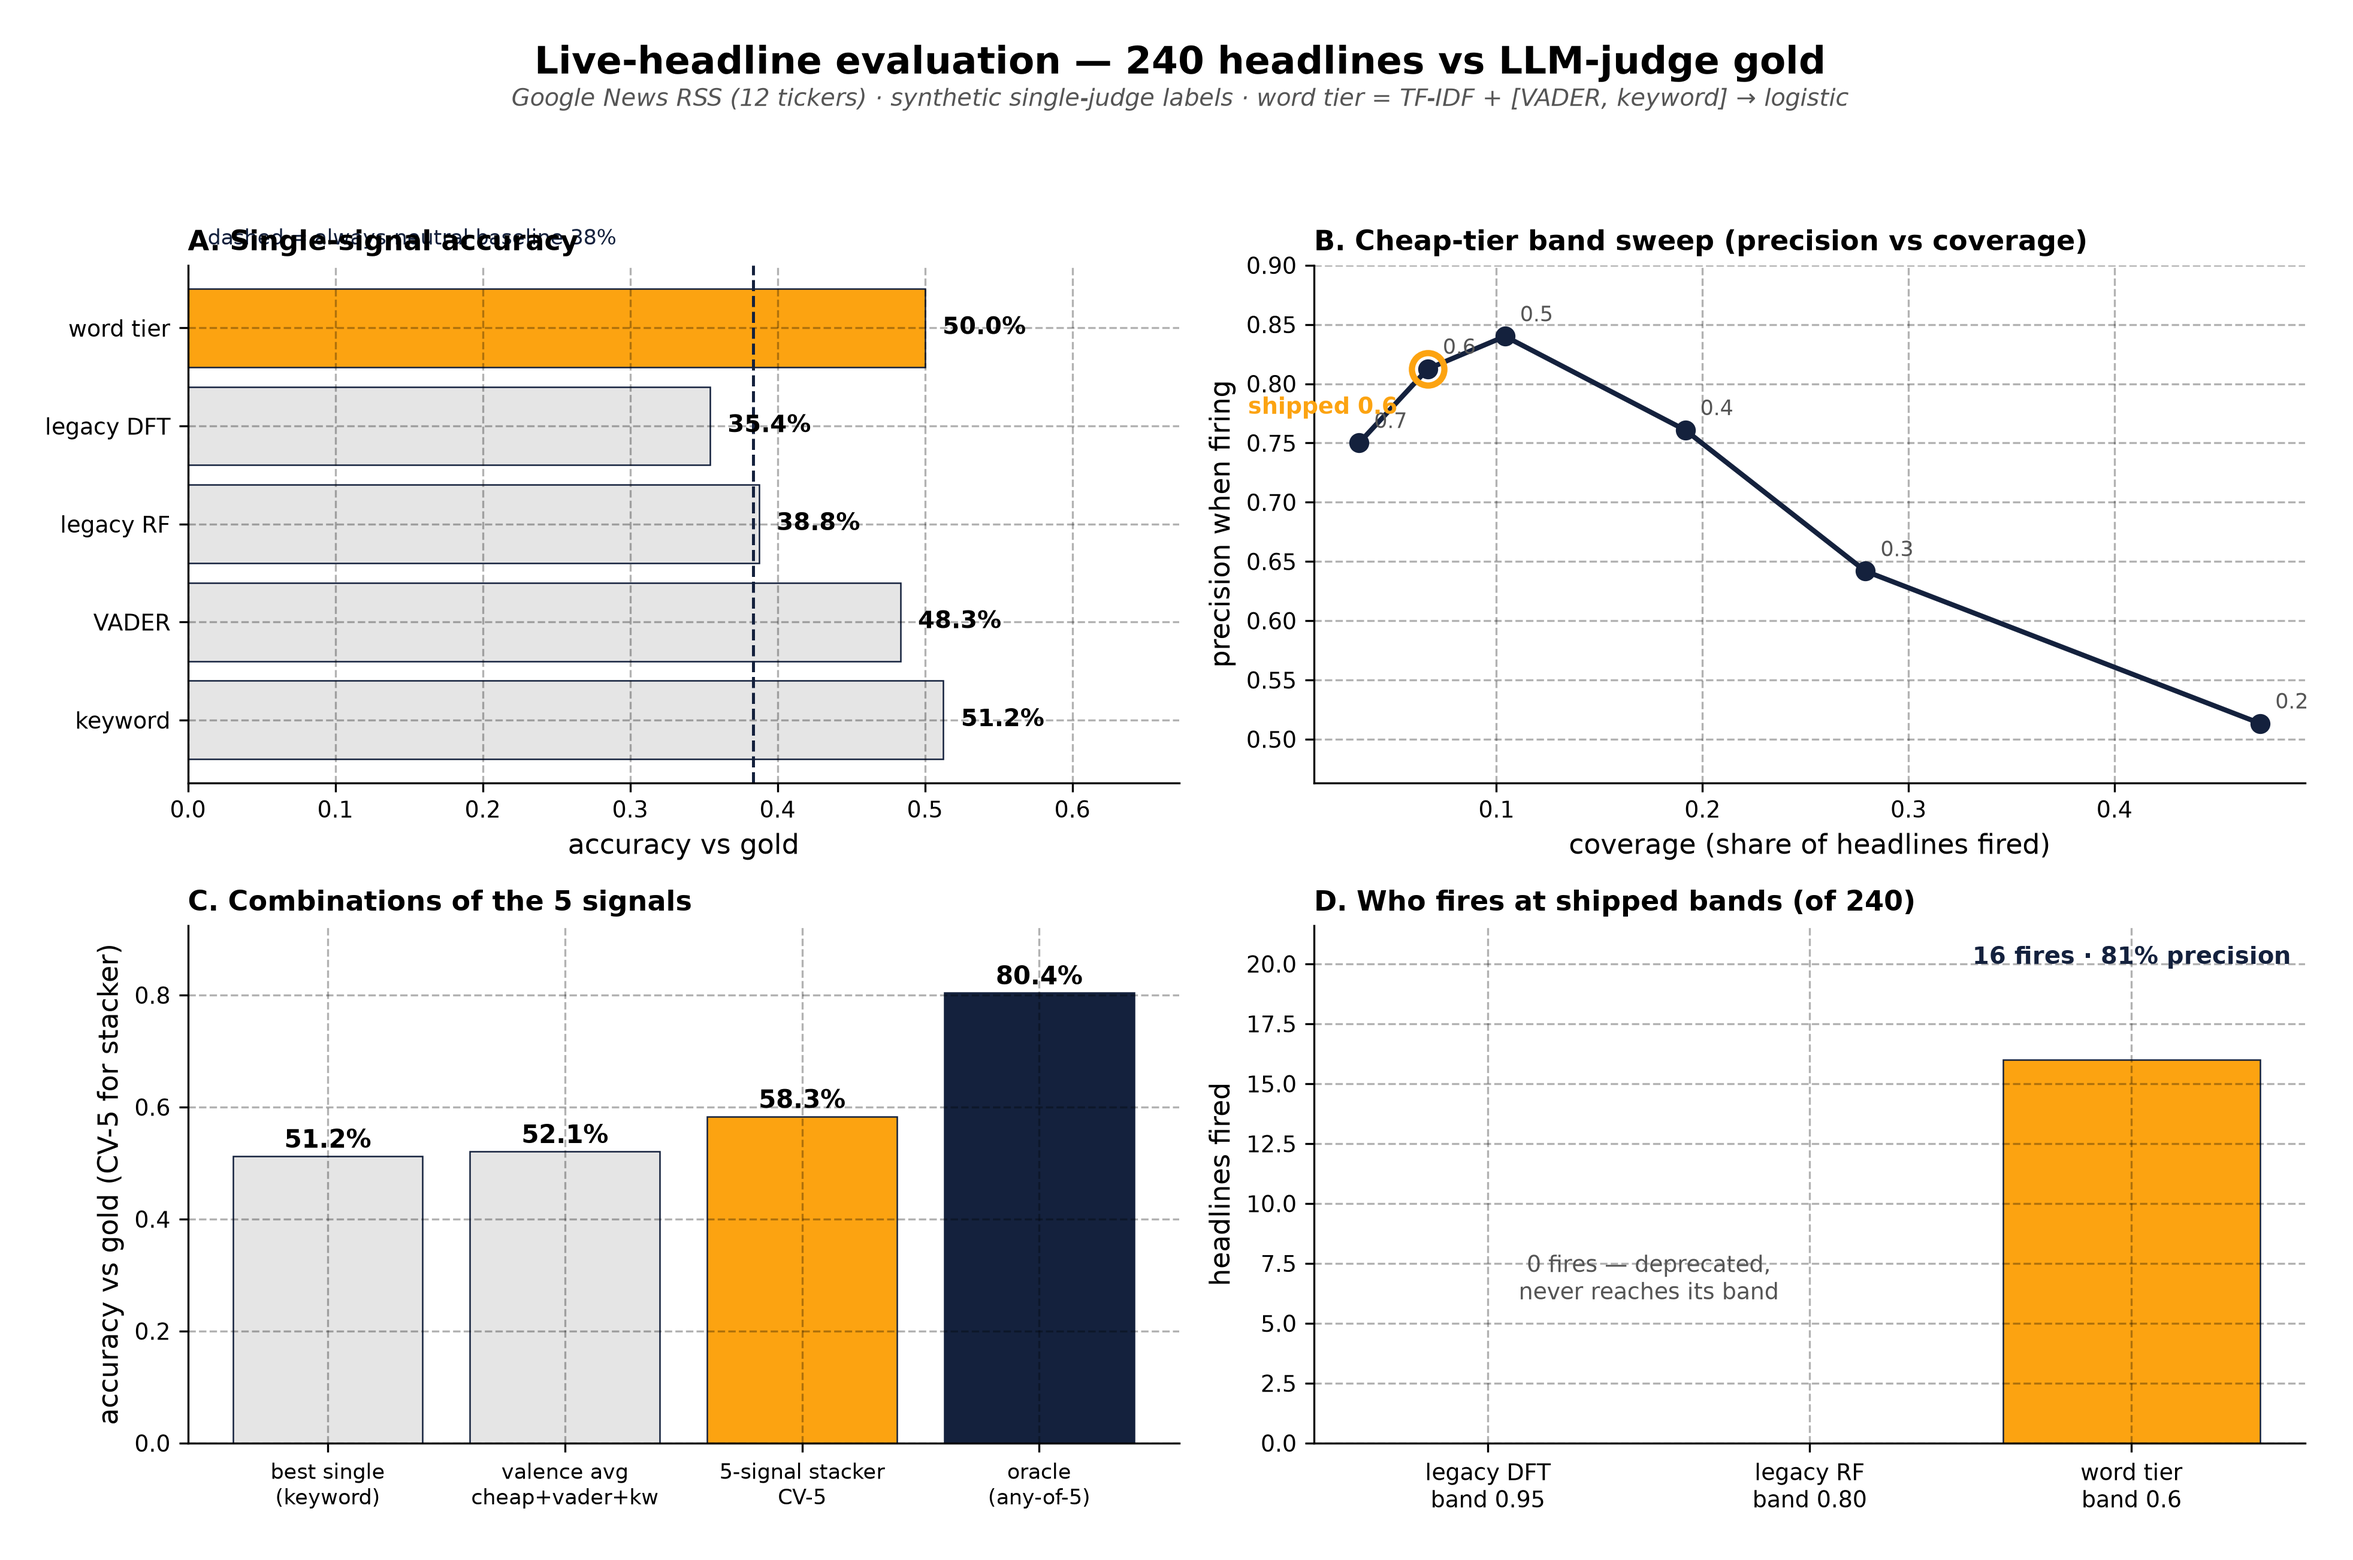
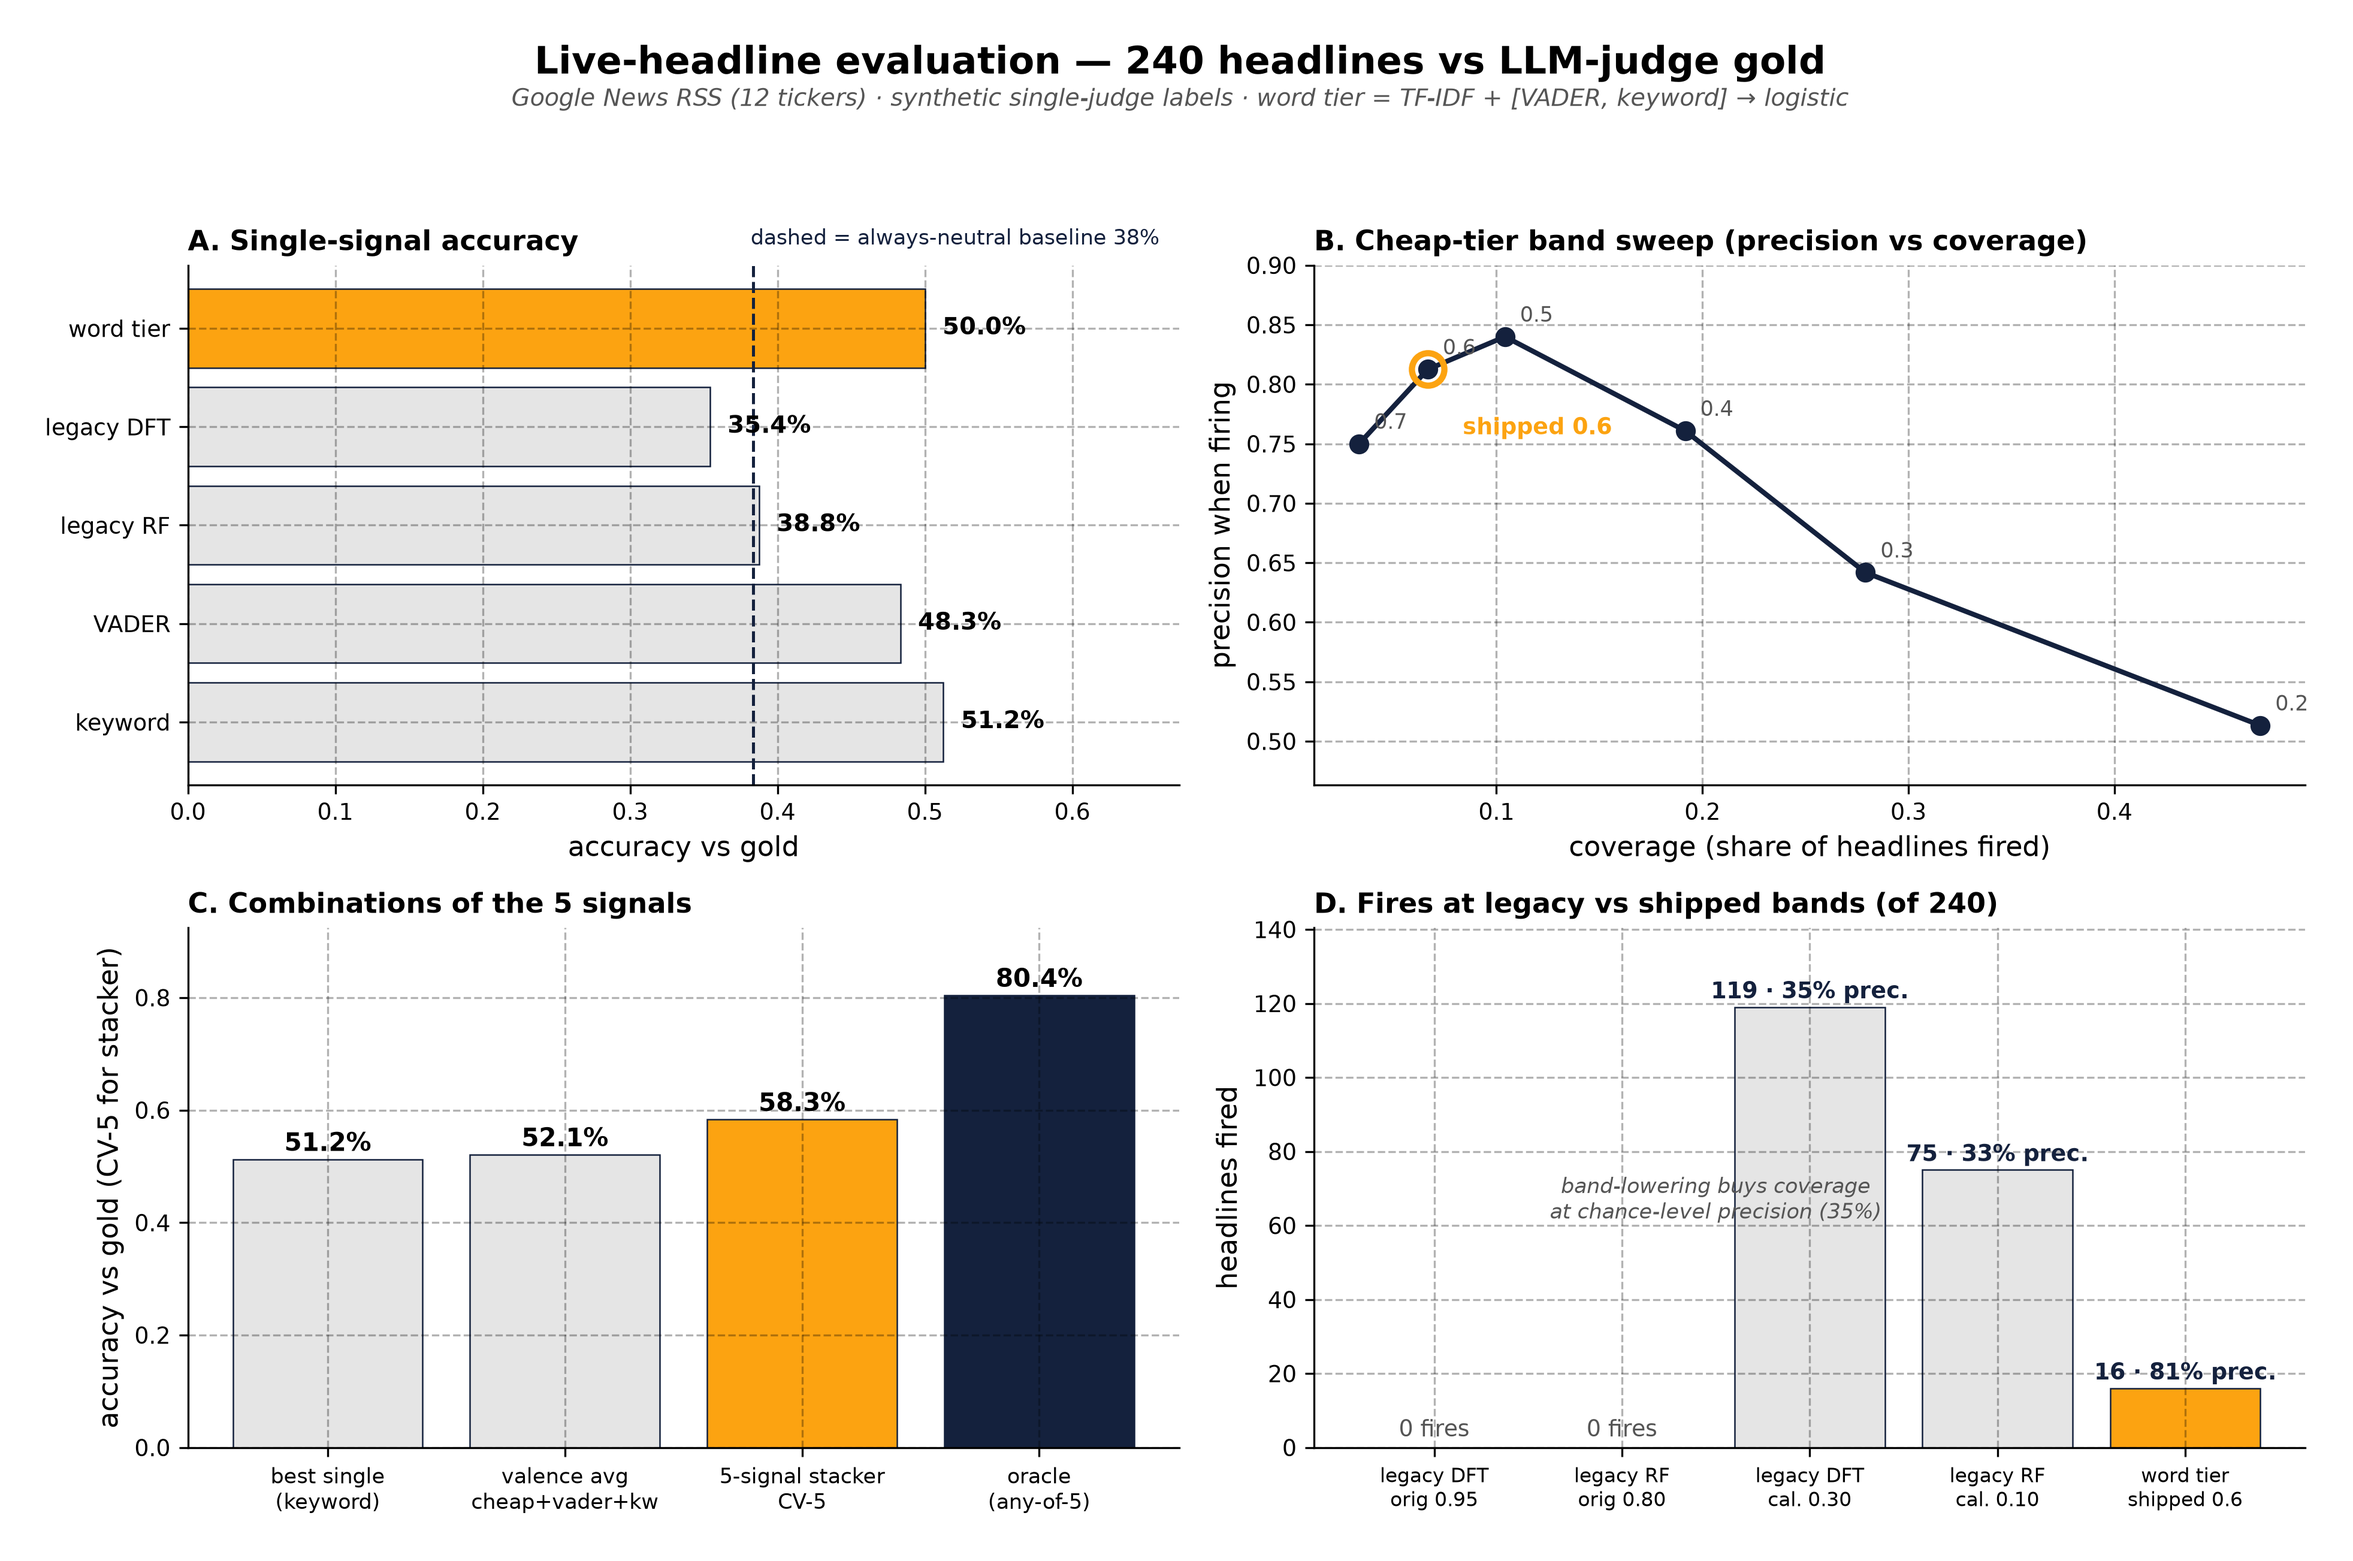
Fix findings-figure label overlaps; expand panel D with legacy recalibrated bands
- panel A: baseline note moved to top-right (no title collision)
- panel B: 'shipped 0.6' label moved off the sweep curve
- panel D: 5 bars — legacy original (0, 0) vs recalibrated 0.30/0.10
  (119 @ 35%, 75 @ 33% — chance) vs shipped word tier (16 @ 81%);
  values computed from the results CSV, not hardcoded

diff --git a/src/figures_headline.py b/src/figures_headline.py
@@ -7,7 +7,8 @@ Panels:
   A. Single-signal accuracy vs gold (n = 240 headlines)
   B. Cheap-tier band sweep: precision vs coverage
   C. Ensemble ladder: best single -> valence average -> 5-signal CV stacker -> oracle
-  D. Fires at shipped bands: legacy letter tiers (0) vs word tier (16 @ 81.2%)
+  D. Fires at legacy bands (original 0.95/0.80 and recalibrated 0.30/0.10)
+     vs the shipped word-tier band
 
 Run from the research repo root:
     python -m src.figures_headline
@@ -85,13 +86,6 @@ def main() -> None:
             [label_from_v(df[c].to_numpy()) == gold for c in SIGNALS]).mean())),
     ]
 
-    # D — fires at shipped bands
-    legacy_dft = int((df["dft_v"].abs() >= 0.95).sum())
-    legacy_rf = int((df["rf_v"].abs() >= 0.80).sum())
-    word = int((np.abs(cv) >= CHEAP_THRESHOLD).sum())
-    word_prec = float((cheap_labels[np.abs(cv) >= CHEAP_THRESHOLD] ==
-                       gold[np.abs(cv) >= CHEAP_THRESHOLD]).mean())
-
     fig, axes = plt.subplots(2, 2, figsize=(13, 8.5))
     fig.suptitle("Live-headline evaluation — 240 headlines vs LLM-judge gold",
                  fontsize=15, fontweight="bold", color=PALETTE["black"], y=0.985)
@@ -108,8 +102,9 @@ def main() -> None:
             for k in names]
     ax.barh(names, vals, color=cols, edgecolor=PALETTE["prussian"], linewidth=0.6)
     ax.axvline(majority, color=PALETTE["prussian"], ls="--", lw=1.2)
-    ax.text(0.02, 1.04, f"dashed = always-neutral baseline {majority:.0%}",
-            transform=ax.transAxes, fontsize=8.5, color=PALETTE["prussian"])
+    ax.text(0.98, 1.04, f"dashed = always-neutral baseline {majority:.0%}",
+            transform=ax.transAxes, fontsize=8.5, color=PALETTE["prussian"],
+            ha="right")
     for i, v in enumerate(vals):
         ax.text(v + 0.012, i, f"{v:.1%}", va="center", fontsize=9.5,
                 fontweight="bold")
@@ -130,7 +125,7 @@ def main() -> None:
     ax.plot([ship[0]], [ship[1]], "o", ms=13, mfc="none",
             mec=PALETTE["orange"], mew=2.5)
     ax.annotate(f"shipped {CHEAP_THRESHOLD}", (ship[0], ship[1]),
-                textcoords="offset points", xytext=(-72, -18), fontsize=9,
+                textcoords="offset points", xytext=(14, -26), fontsize=9,
                 color=PALETTE["orange"], fontweight="bold")
     ax.set_ylim(min(pre) - 0.05, max(pre) + 0.06)
     ax.set_title("B. Cheap-tier band sweep (precision vs coverage)",
@@ -157,22 +152,45 @@ def main() -> None:
                  fontweight="bold")
     ax.set_ylabel("accuracy vs gold (CV-5 for stacker)")
 
-    # D — fires at shipped bands
+    # D — fires: legacy original vs legacy recalibrated vs shipped word tier
     ax = axes[1, 1]
-    labels = ["legacy DFT\nband 0.95", "legacy RF\nband 0.80",
-              f"word tier\nband {CHEAP_THRESHOLD}"]
-    fires = [legacy_dft, legacy_rf, word]
-    dcols = [PALETTE["alabaster"], PALETTE["alabaster"], PALETTE["orange"]]
+    dft_v = df["dft_v"].to_numpy()
+    rf_v = df["rf_v"].to_numpy()
+
+    m_dft_orig = np.abs(dft_v) >= 0.95
+    m_rf_orig = np.abs(rf_v) >= 0.80
+    m_dft_cal = np.abs(dft_v) >= 0.30
+    m_rf_cal = (~m_dft_cal) & (np.abs(rf_v) >= 0.10)
+    m_word = np.abs(cv) >= CHEAP_THRESHOLD
+
+    prec = lambda vals, mask: float(
+        (label_from_v(vals[mask]) == gold[mask]).mean()) if mask.any() else None
+    bars = [
+        ("legacy DFT\norig 0.95", int(m_dft_orig.sum()), None),
+        ("legacy RF\norig 0.80", int(m_rf_orig.sum()), None),
+        ("legacy DFT\ncal. 0.30", int(m_dft_cal.sum()), prec(dft_v, m_dft_cal)),
+        ("legacy RF\ncal. 0.10", int(m_rf_cal.sum()), prec(rf_v, m_rf_cal)),
+        ("word tier\nshipped 0.6", int(m_word.sum()), prec(cv, m_word)),
+    ]
+    labels = [b[0] for b in bars]
+    fires = [b[1] for b in bars]
+    dcols = [PALETTE["alabaster"]] * 4 + [PALETTE["orange"]]
     ax.bar(labels, fires, color=dcols, edgecolor=PALETTE["prussian"], linewidth=0.6)
-    ax.text(2, word + 4, f"{word} fires · {word_prec:.0%} precision",
-            ha="center", fontsize=9.5, fontweight="bold",
-            color=PALETTE["prussian"])
-    ax.text(0.5, 6, "0 fires — deprecated,\nnever reaches its band",
-            ha="center", fontsize=9, color="#555555")
-    ax.set_ylim(0, max(fires) * 1.35)
-    ax.set_title("D. Who fires at shipped bands (of 240)", loc="left",
+    for i, (lab, f, p) in enumerate(bars):
+        if f == 0:
+            ax.text(i, 3, "0 fires", ha="center", fontsize=9, color="#555555")
+        else:
+            note = f"{f} · {p:.0%} prec." if p is not None else f"{f}"
+            ax.text(i, f + max(fires) * 0.02, note, ha="center", fontsize=9,
+                    fontweight="bold", color=PALETTE["prussian"])
+    ax.text(1.5, max(fires) * 0.52,
+            "band-lowering buys coverage\nat chance-level precision (35%)",
+            ha="center", fontsize=8.5, color="#555555", style="italic")
+    ax.set_ylim(0, max(fires) * 1.18)
+    ax.set_title("D. Fires at legacy vs shipped bands (of 240)", loc="left",
                  fontsize=11, fontweight="bold")
     ax.set_ylabel("headlines fired")
+    ax.tick_params(axis="x", labelsize=8)
 
     fig.tight_layout(rect=(0, 0, 1, 0.93))
     OUT.parent.mkdir(parents=True, exist_ok=True)
